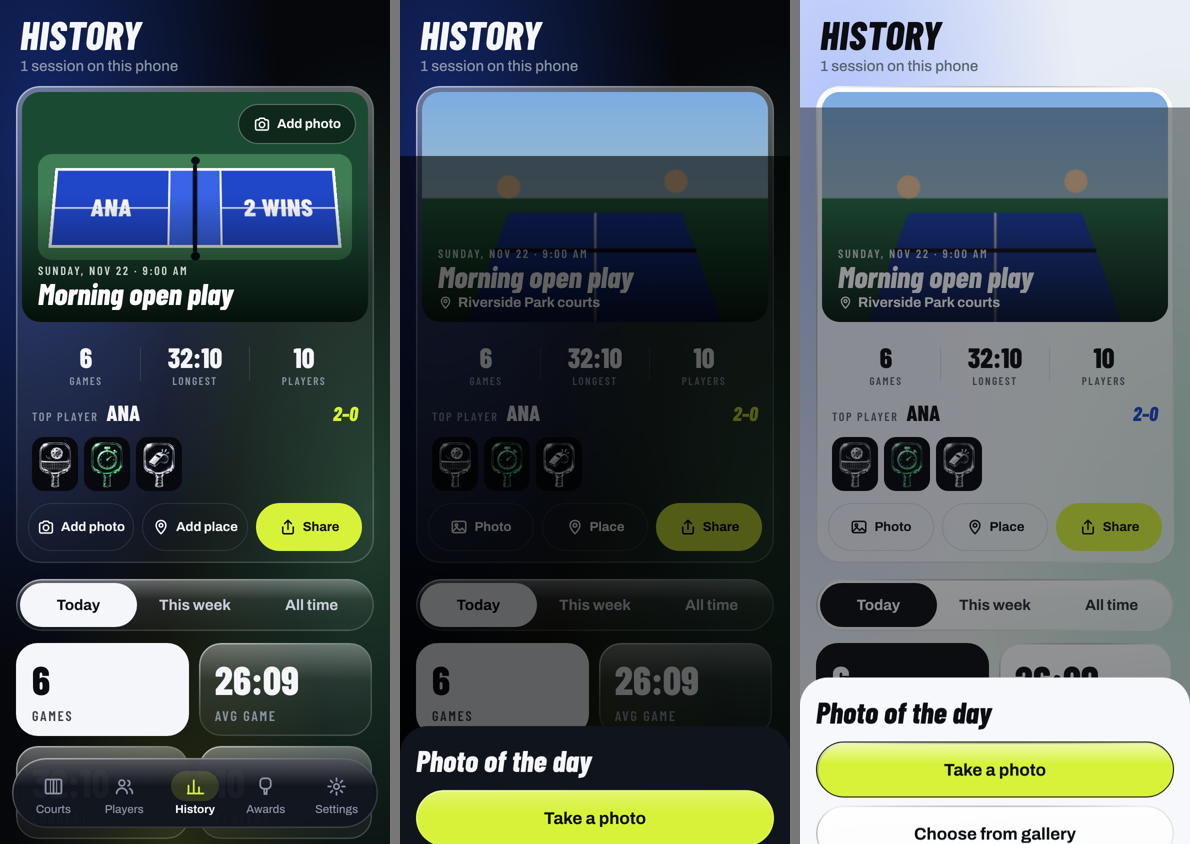
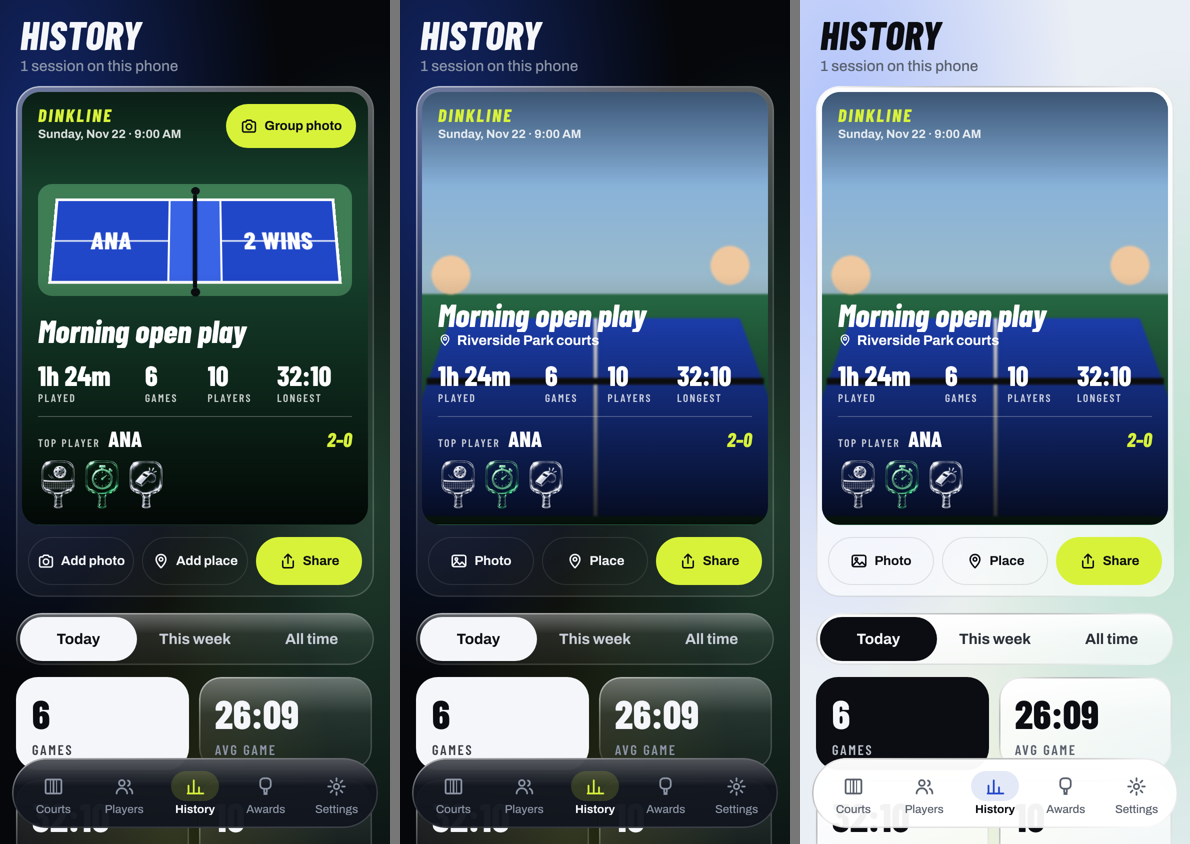
Pickleball posts: the photo fills the post with time played, games, players, longest game, top player and badges printed on it

diff --git a/apps/pickleball/src/ui/PostCard.tsx b/apps/pickleball/src/ui/PostCard.tsx
@@ -1,10 +1,12 @@
-// A session as a post, like a run on a running app: the photo (or the painted court), the day and the
-// place, the numbers of the session, the top player and the badges won. The same card is shared as a picture.
+// A session as a photo post, like a run on a running app: the group photo fills the card and the numbers
+// of the session sit on it in big white type (time played, games, players, longest game), with the day,
+// the top player and the badges won. Without a photo, the painted court is the background.
+// The same picture is what gets shared.
 import { Image, Pressable, Text, View } from 'react-native';
 import Svg, { Defs, LinearGradient, Rect, Stop } from 'react-native-svg';
-import { t } from '../i18n/en';
+import { APP_NAME, t } from '../i18n/en';
 import type { AwardId } from '../logic/achievements';
-import { clock, SessionRecord, stats } from '../logic/history';
+import { clock, hoursMinutes, SessionRecord, sessionLength, stats } from '../logic/history';
 import type { PostMeta } from '../state/storage';
 import { themed, useTheme } from '../theme/theme';
 import { font, radius, size, space } from '../theme/tokens';
@@ -26,97 +28,98 @@ interface Props {
 
 export function PostCard({ record, meta, awards, forShare, onPhoto, onPlace, onShare }: Props) {
   const s = useS();
-  const c = useTheme();
   const st = stats(record.games);
   const top = st.table[0];
   const photo = meta?.photo;
-  const body = (
-    <>
-      <View style={[s.media, forShare && s.mediaShare]}>
-        {photo ? (
-          <Image source={{ uri: photo }} style={s.photo} resizeMode="cover" accessibilityIgnoresInvertColors />
-        ) : (
-          <View style={s.art}>
-            <View style={{ width: '100%', paddingHorizontal: space.l }}>
-              <CourtSurface left={top ? [top.name] : ['']} right={[t.posts.wins(top?.wins ?? 0)]} height={86} />
-            </View>
-            {!forShare ? (
-              <View style={s.mediaButtons}>
-                <Pressable onPress={onPhoto} style={s.mediaBtn} accessibilityRole="button" accessibilityLabel={t.posts.addPhoto}>
-                  <Icon name="camera" size={18} tint="#FFFFFF" />
-                  <Text style={s.mediaBtnText}>{t.posts.addPhoto}</Text>
-                </Pressable>
-              </View>
-            ) : null}
-          </View>
-        )}
-        <Svg style={s.fade} width="100%" height="100%" pointerEvents="none">
-          <Defs>
-            <LinearGradient id={`fade-${record.id}`} x1="0" y1="0" x2="0" y2="1">
-              <Stop offset="0.45" stopColor="#000000" stopOpacity={0} />
-              <Stop offset="1" stopColor="#000000" stopOpacity={0.78} />
-            </LinearGradient>
-          </Defs>
-          <Rect x="0" y="0" width="100%" height="100%" fill={`url(#fade-${record.id})`} />
-        </Svg>
-        <View style={s.caption} pointerEvents="none">
-          <Text style={s.kicker}>{t.posts.when(record.startedAt).toUpperCase()}</Text>
-          <Text style={s.title} numberOfLines={1}>{t.posts.title(record.startedAt)}</Text>
-          {meta?.place ? (
-            <View style={s.placeRow}>
-              <Icon name="pin" size={15} tint="#FFFFFF" />
-              <Text style={s.place} numberOfLines={1}>{meta.place}</Text>
-            </View>
-          ) : null}
-        </View>
-      </View>
 
-      <View style={s.statsRow}>
-        <Cell v={String(st.games)} l={t.history.games} />
-        <View style={s.vr} />
-        <Cell v={clock(st.longestMs)} l={t.history.longest} />
-        <View style={s.vr} />
-        <Cell v={String(record.players.length)} l={t.history.players} />
-      </View>
-      {top ? (
-        <View style={s.topRow}>
-          <Text style={s.topLabel}>{t.posts.top}</Text>
-          <Text style={s.topName} numberOfLines={1}>{top.name.toUpperCase()}</Text>
-          <Text style={s.topMeta}>{t.history.record(top.wins, top.games - top.wins)}</Text>
-        </View>
-      ) : null}
-      {awards.length ? (
-        <View style={s.badges}>
-          {awards.slice(0, 6).map((id) => (
-            <View key={id} style={s.badgeCase}>
-              <Image source={BADGES[id]} style={s.badge} resizeMode="contain" accessibilityLabel={t.awards.name[id]} />
-            </View>
-          ))}
-          {awards.length > 6 ? <Text style={s.more}>+{awards.length - 6}</Text> : null}
-        </View>
-      ) : null}
-
-      {forShare ? (
-        <Text style={s.foot}>{t.share.foot}</Text>
+  const picture = (
+    <View style={[s.media, forShare && s.mediaShare]}>
+      {photo ? (
+        <Image source={{ uri: photo }} style={s.fill} resizeMode="cover" accessibilityIgnoresInvertColors />
       ) : (
-        <View style={s.actions}>
-          <Action icon={photo ? 'image' : 'camera'} label={photo ? t.posts.changePhoto : t.posts.addPhoto} onPress={onPhoto} />
-          <Action icon="pin" label={meta?.place ? t.posts.changePlace : t.posts.addPlace} onPress={onPlace} />
-          <Action icon="share" label={t.posts.share} onPress={onShare} strong />
+        <View style={[s.fill, s.art]}>
+          <View style={s.artCourt}>
+            <CourtSurface left={top ? [top.name] : ['']} right={[t.posts.wins(top?.wins ?? 0)]} height={92} />
+          </View>
         </View>
       )}
-    </>
+      <Svg style={s.fill} width="100%" height="100%" pointerEvents="none">
+        <Defs>
+          <LinearGradient id={`top-${record.id}`} x1="0" y1="0" x2="0" y2="1">
+            <Stop offset="0" stopColor="#000000" stopOpacity={0.5} />
+            <Stop offset="0.22" stopColor="#000000" stopOpacity={0} />
+            <Stop offset="0.42" stopColor="#000000" stopOpacity={0} />
+            <Stop offset="1" stopColor="#000000" stopOpacity={0.86} />
+          </LinearGradient>
+        </Defs>
+        <Rect x="0" y="0" width="100%" height="100%" fill={`url(#top-${record.id})`} />
+      </Svg>
+
+      <View style={s.topBar} pointerEvents="box-none">
+        <View>
+          <Text style={s.brand}>{APP_NAME.toUpperCase()}</Text>
+          <Text style={s.when}>{t.posts.when(record.startedAt)}</Text>
+        </View>
+        {!forShare && !photo ? (
+          <Pressable onPress={onPhoto} style={s.cameraBtn} accessibilityRole="button" accessibilityLabel={t.posts.groupPhoto}>
+            <Icon name="camera" size={18} tint="#0B0D12" />
+            <Text style={s.cameraText}>{t.posts.groupPhoto}</Text>
+          </Pressable>
+        ) : null}
+      </View>
+
+      <View style={s.bottom} pointerEvents="none">
+        <Text style={s.title} numberOfLines={1}>{t.posts.title(record.startedAt)}</Text>
+        {meta?.place ? (
+          <View style={s.placeRow}>
+            <Icon name="pin" size={14} tint="#FFFFFF" />
+            <Text style={s.place} numberOfLines={1}>{meta.place}</Text>
+          </View>
+        ) : null}
+        <View style={s.statsRow}>
+          <Big v={hoursMinutes(sessionLength(record))} l={t.posts.played} grow={1.45} />
+          <Big v={String(st.games)} l={t.history.games} grow={0.8} />
+          <Big v={String(record.players.length)} l={t.history.players} grow={0.9} />
+          <Big v={clock(st.longestMs)} l={t.history.longest} grow={1.1} />
+        </View>
+        {top ? (
+          <View style={s.topRow}>
+            <Text style={s.topLabel}>{t.posts.top}</Text>
+            <Text style={s.topName} numberOfLines={1}>{top.name.toUpperCase()}</Text>
+            <Text style={s.topMeta}>{t.history.record(top.wins, top.games - top.wins)}</Text>
+          </View>
+        ) : null}
+        {awards.length ? (
+          <View style={s.badges}>
+            {awards.slice(0, 6).map((id) => (
+              <Image key={id} source={BADGES[id]} style={s.badge} resizeMode="contain" accessibilityLabel={t.awards.name[id]} />
+            ))}
+            {awards.length > 6 ? <Text style={s.more}>+{awards.length - 6}</Text> : null}
+          </View>
+        ) : null}
+      </View>
+    </View>
   );
-  if (forShare) return <View style={[s.card, s.shareCard, { backgroundColor: c.bg }]}>{body}</View>;
-  return <Glass style={s.card}>{body}</Glass>;
+
+  if (forShare) return picture;
+  return (
+    <Glass style={s.card}>
+      {picture}
+      <View style={s.actions}>
+        <Action icon={photo ? 'image' : 'camera'} label={photo ? t.posts.changePhoto : t.posts.addPhoto} onPress={onPhoto} />
+        <Action icon="pin" label={meta?.place ? t.posts.changePlace : t.posts.addPlace} onPress={onPlace} />
+        <Action icon="share" label={t.posts.share} onPress={onShare} strong />
+      </View>
+    </Glass>
+  );
 }
 
-function Cell({ v, l }: { v: string; l: string }) {
+function Big({ v, l, grow }: { v: string; l: string; grow: number }) {
   const s = useS();
   return (
-    <View style={s.cell}>
-      <Text style={s.cellV} numberOfLines={1} adjustsFontSizeToFit>{v}</Text>
-      <Text style={s.cellL}>{l.toUpperCase()}</Text>
+    <View style={[s.big, { flex: grow }]}>
+      <Text style={s.bigV} numberOfLines={1} adjustsFontSizeToFit minimumFontScale={0.7}>{v}</Text>
+      <Text style={s.bigL}>{l.toUpperCase()}</Text>
     </View>
   );
 }
@@ -132,38 +135,37 @@ function Action({ icon, label, onPress, strong }: { icon: 'camera' | 'image' | '
   );
 }
 
+const W = '#FFFFFF';
+
 const useS = themed((c) => ({
   card: { marginBottom: space.l },
-  shareCard: { width: 360, borderRadius: 0, paddingBottom: space.l },
-  media: { height: 230, margin: 6, borderRadius: radius.glass - 6, overflow: 'hidden', backgroundColor: c.courtOut },
-  mediaShare: { height: 270, margin: 0, borderRadius: 0 },
-  photo: { width: '100%', height: '100%' },
-  art: { flex: 1, alignItems: 'center', justifyContent: 'center', backgroundColor: '#1B4A33' },
-  mediaButtons: { position: 'absolute', top: space.m, right: space.m },
-  mediaBtn: { flexDirection: 'row', alignItems: 'center', gap: 6, minHeight: 40, paddingHorizontal: 14, borderRadius: 20, backgroundColor: 'rgba(0,0,0,0.45)', borderWidth: 1, borderColor: 'rgba(255,255,255,0.35)' },
-  mediaBtnText: { fontFamily: font.bodyBold, fontSize: 13, color: '#FFFFFF' },
-  fade: { position: 'absolute', left: 0, top: 0 },
-  caption: { position: 'absolute', left: space.l, right: space.l, bottom: space.m },
-  kicker: { fontFamily: font.label, fontSize: 12, letterSpacing: 1.8, color: 'rgba(255,255,255,0.8)' },
-  title: { fontFamily: font.displayItalic, fontSize: 30, lineHeight: 33, color: '#FFFFFF' },
-  placeRow: { flexDirection: 'row', alignItems: 'center', gap: 5, marginTop: 2 },
-  place: { fontFamily: font.bodyBold, fontSize: 14, color: '#FFFFFF' },
-  statsRow: { flexDirection: 'row', alignItems: 'center', paddingHorizontal: space.l, paddingTop: space.m },
-  vr: { width: 1, height: 34, backgroundColor: c.hair },
-  cell: { flex: 1, alignItems: 'center' },
-  cellV: { fontFamily: font.display, fontSize: 28, color: c.text },
-  cellL: { fontFamily: font.label, fontSize: 11, letterSpacing: 1.5, color: c.mute },
-  topRow: { flexDirection: 'row', alignItems: 'baseline', gap: space.s, paddingHorizontal: space.l, paddingTop: space.m },
-  topLabel: { fontFamily: font.label, fontSize: 12, letterSpacing: 1.6, color: c.mute },
-  topName: { flex: 1, fontFamily: font.display, fontSize: 22, color: c.text },
-  topMeta: { fontFamily: font.displayItalic, fontSize: 20, color: c.mode === 'dark' ? c.accent : c.court },
-  badges: { flexDirection: 'row', alignItems: 'center', gap: 6, paddingHorizontal: space.l, paddingTop: space.m },
-  badgeCase: { width: 46, height: 54, borderRadius: 12, backgroundColor: c.showcase, alignItems: 'center', justifyContent: 'center' },
-  badge: { width: 38, height: 47 },
-  more: { fontFamily: font.bodyBold, fontSize: 14, color: c.mute },
-  actions: { flexDirection: 'row', gap: space.s, padding: space.m },
+  media: { aspectRatio: 4 / 5, margin: 6, borderRadius: radius.glass - 6, overflow: 'hidden', backgroundColor: c.courtOut },
+  mediaShare: { width: 360, margin: 0, borderRadius: 0 },
+  fill: { position: 'absolute', left: 0, top: 0, right: 0, bottom: 0, width: '100%', height: '100%' },
+  art: { backgroundColor: '#163E2B', alignItems: 'center', justifyContent: 'flex-start', paddingTop: 92 },
+  artCourt: { width: '100%', paddingHorizontal: space.l },
+  topBar: { position: 'absolute', left: space.l, right: space.m, top: space.m, flexDirection: 'row', justifyContent: 'space-between', alignItems: 'flex-start' },
+  brand: { fontFamily: font.displayItalic, fontSize: 18, letterSpacing: 2, color: c.accent },
+  when: { fontFamily: font.bodyBold, fontSize: 12, color: 'rgba(255,255,255,0.85)', marginTop: 1 },
+  cameraBtn: { flexDirection: 'row', alignItems: 'center', gap: 6, minHeight: 44, paddingHorizontal: 14, borderRadius: 22, backgroundColor: c.accent },
+  cameraText: { fontFamily: font.bodyBold, fontSize: 13, color: '#0B0D12' },
+  bottom: { position: 'absolute', left: space.l, right: space.l, bottom: space.l },
+  title: { fontFamily: font.displayItalic, fontSize: 32, lineHeight: 35, color: W },
+  placeRow: { flexDirection: 'row', alignItems: 'center', gap: 5, marginTop: 1 },
+  place: { fontFamily: font.bodyBold, fontSize: 14, color: W },
+  statsRow: { flexDirection: 'row', marginTop: space.m, gap: space.s },
+  big: { flex: 1 },
+  bigV: { fontFamily: font.display, fontSize: 28, lineHeight: 31, color: W },
+  bigL: { fontFamily: font.label, fontSize: 11, letterSpacing: 1.5, color: 'rgba(255,255,255,0.78)' },
+  topRow: { flexDirection: 'row', alignItems: 'baseline', gap: space.s, marginTop: space.m, paddingTop: space.s, borderTopWidth: 1, borderColor: 'rgba(255,255,255,0.25)' },
+  topLabel: { fontFamily: font.label, fontSize: 11, letterSpacing: 1.6, color: 'rgba(255,255,255,0.78)' },
+  topName: { flex: 1, fontFamily: font.display, fontSize: 22, color: W },
+  topMeta: { fontFamily: font.displayItalic, fontSize: 20, color: c.accent },
+  badges: { flexDirection: 'row', alignItems: 'center', gap: 4, marginTop: space.s },
+  badge: { width: 40, height: 50 },
+  more: { fontFamily: font.bodyBold, fontSize: 14, color: W },
+  actions: { flexDirection: 'row', gap: space.s, paddingHorizontal: space.m, paddingBottom: space.m, paddingTop: 6 },
   action: { flex: 1, flexDirection: 'row', alignItems: 'center', justifyContent: 'center', gap: 6, minHeight: 48, borderRadius: radius.pill, borderWidth: 1, borderColor: c.hair },
   actionStrong: { backgroundColor: c.accent, borderColor: c.accent },
   actionText: { fontFamily: font.bodyBold, fontSize: size.small - 1, color: c.text },
-  foot: { fontFamily: font.body, fontSize: 12, color: c.mute, paddingHorizontal: space.l, paddingTop: space.m },
 }));

diff --git a/apps/pickleball/src/logic/history.test.ts b/apps/pickleball/src/logic/history.test.ts
@@ -1,4 +1,4 @@
-import { allSessions, clock, gamesIn, stats, toRecord } from './history';
+import { allSessions, clock, gamesIn, hoursMinutes, sessionLength, stats, toRecord } from './history';
 import { addPlayer, DEFAULT_SETTINGS, fillCourts, finishGame, newSession, scoreRally } from './session';
 import { maxDeficit, DEFAULT_RULES, Team } from './scoring';
 
@@ -59,6 +59,13 @@ describe('stats', () => {
   });
   it('empty is all zeros', () => {
     expect(stats([])).toMatchObject({ games: 0, avgMs: 0, longestMs: 0, players: 0 });
+  });
+  it('time played in a session', () => {
+    const r = session('s', day, games);
+    expect(sessionLength(r)).toBe(60 * MIN);
+    expect(hoursMinutes(60 * MIN)).toBe('1h 00m');
+    expect(hoursMinutes(134 * MIN)).toBe('2h 14m');
+    expect(hoursMinutes(48 * MIN)).toBe('48m');
   });
   it('clock', () => {
     expect(clock(14 * MIN + 32000)).toBe('14:32');

diff --git a/apps/pickleball/src/logic/history.ts b/apps/pickleball/src/logic/history.ts
@@ -109,6 +109,16 @@ export function stats(games: GameRecord[]): Stats {
   };
 }
 
+/** How long a session lasted, from the first game's start to the last game's end. */
+export const sessionLength = (r: SessionRecord) => Math.max(0, r.endedAt - r.startedAt);
+
+/** "2h 14m" or "48m": the way running apps show time played. */
+export function hoursMinutes(ms: number): string {
+  const m = Math.round(ms / 60000);
+  const h = Math.floor(m / 60);
+  return h > 0 ? `${h}h ${String(m % 60).padStart(2, '0')}m` : `${m}m`;
+}
+
 /** "14:32" for minutes and seconds, "1:02:10" past an hour. */
 export function clock(ms: number): string {
   const total = Math.round(ms / 1000);

diff --git a/apps/pickleball/src/i18n/en.ts b/apps/pickleball/src/i18n/en.ts
@@ -153,6 +153,8 @@ export const t = {
     when: (t: number) => `${dayFmt(t)} · ${timeFmt(t)}`,
     wins: (n: number) => `${n} ${n === 1 ? 'WIN' : 'WINS'}`,
     top: 'TOP PLAYER',
+    played: 'Played',
+    groupPhoto: 'Group photo',
     feed: 'Past sessions',
     addPhoto: 'Add photo',
     changePhoto: 'Photo',

diff --git a/apps/pickleball/DECISIONS.md b/apps/pickleball/DECISIONS.md
@@ -24,4 +24,4 @@ Newest at the bottom. "Claude" = decided while Anass slept (21 Nov 2026, he appr
 | 2026-11-22 | Session save moved to version 2 (session id and start time; each result keeps its start time, target and comeback depth). Version 1 saves are upgraded, tested. History saved under its own key. | Game lengths and awards need it; a running session must never be lost. | Claude |
 | 2026-11-22 | The "Award unlocked" banner may show over the Courts screen: it covers only the title, blocks no tap and leaves after 3.6 s. Ads and blocking pop-ups stay banned there. | The rule is about not interrupting the court; a short non-blocking banner does not. | Claude |
 | 2026-11-22 | **Session posts** like running apps: photo (camera or gallery, copied into the app's folder, never uploaded), place name (typed, remembered), the day's numbers, top player and badges; a feed of past sessions in History; the post is the shared picture. | Anass: "like Strava and Adidas Running, people have their map with their pictures." | Anass |
-| 2026-11-22 | No real map yet: a street map needs a Google or Mapbox account and a key, and can cost money per user. The post shows the painted court and the place name instead. No location permission is asked. | Root rule: no accounts or spending without Anass's yes; fewer permissions is better for privacy and the store forms. | Claude (asked Anass in chat) |
+| 2026-11-22 | **No map.** The post is the photo with the numbers printed on it (time played, games, players, longest game, top player, badges), 4:5 portrait, like running apps' photo posts. No location permission. | Anass: "I just said like the image style, I didn't ask for the map. They take a picture and it shows how long they played, players and stuff." | Anass |
